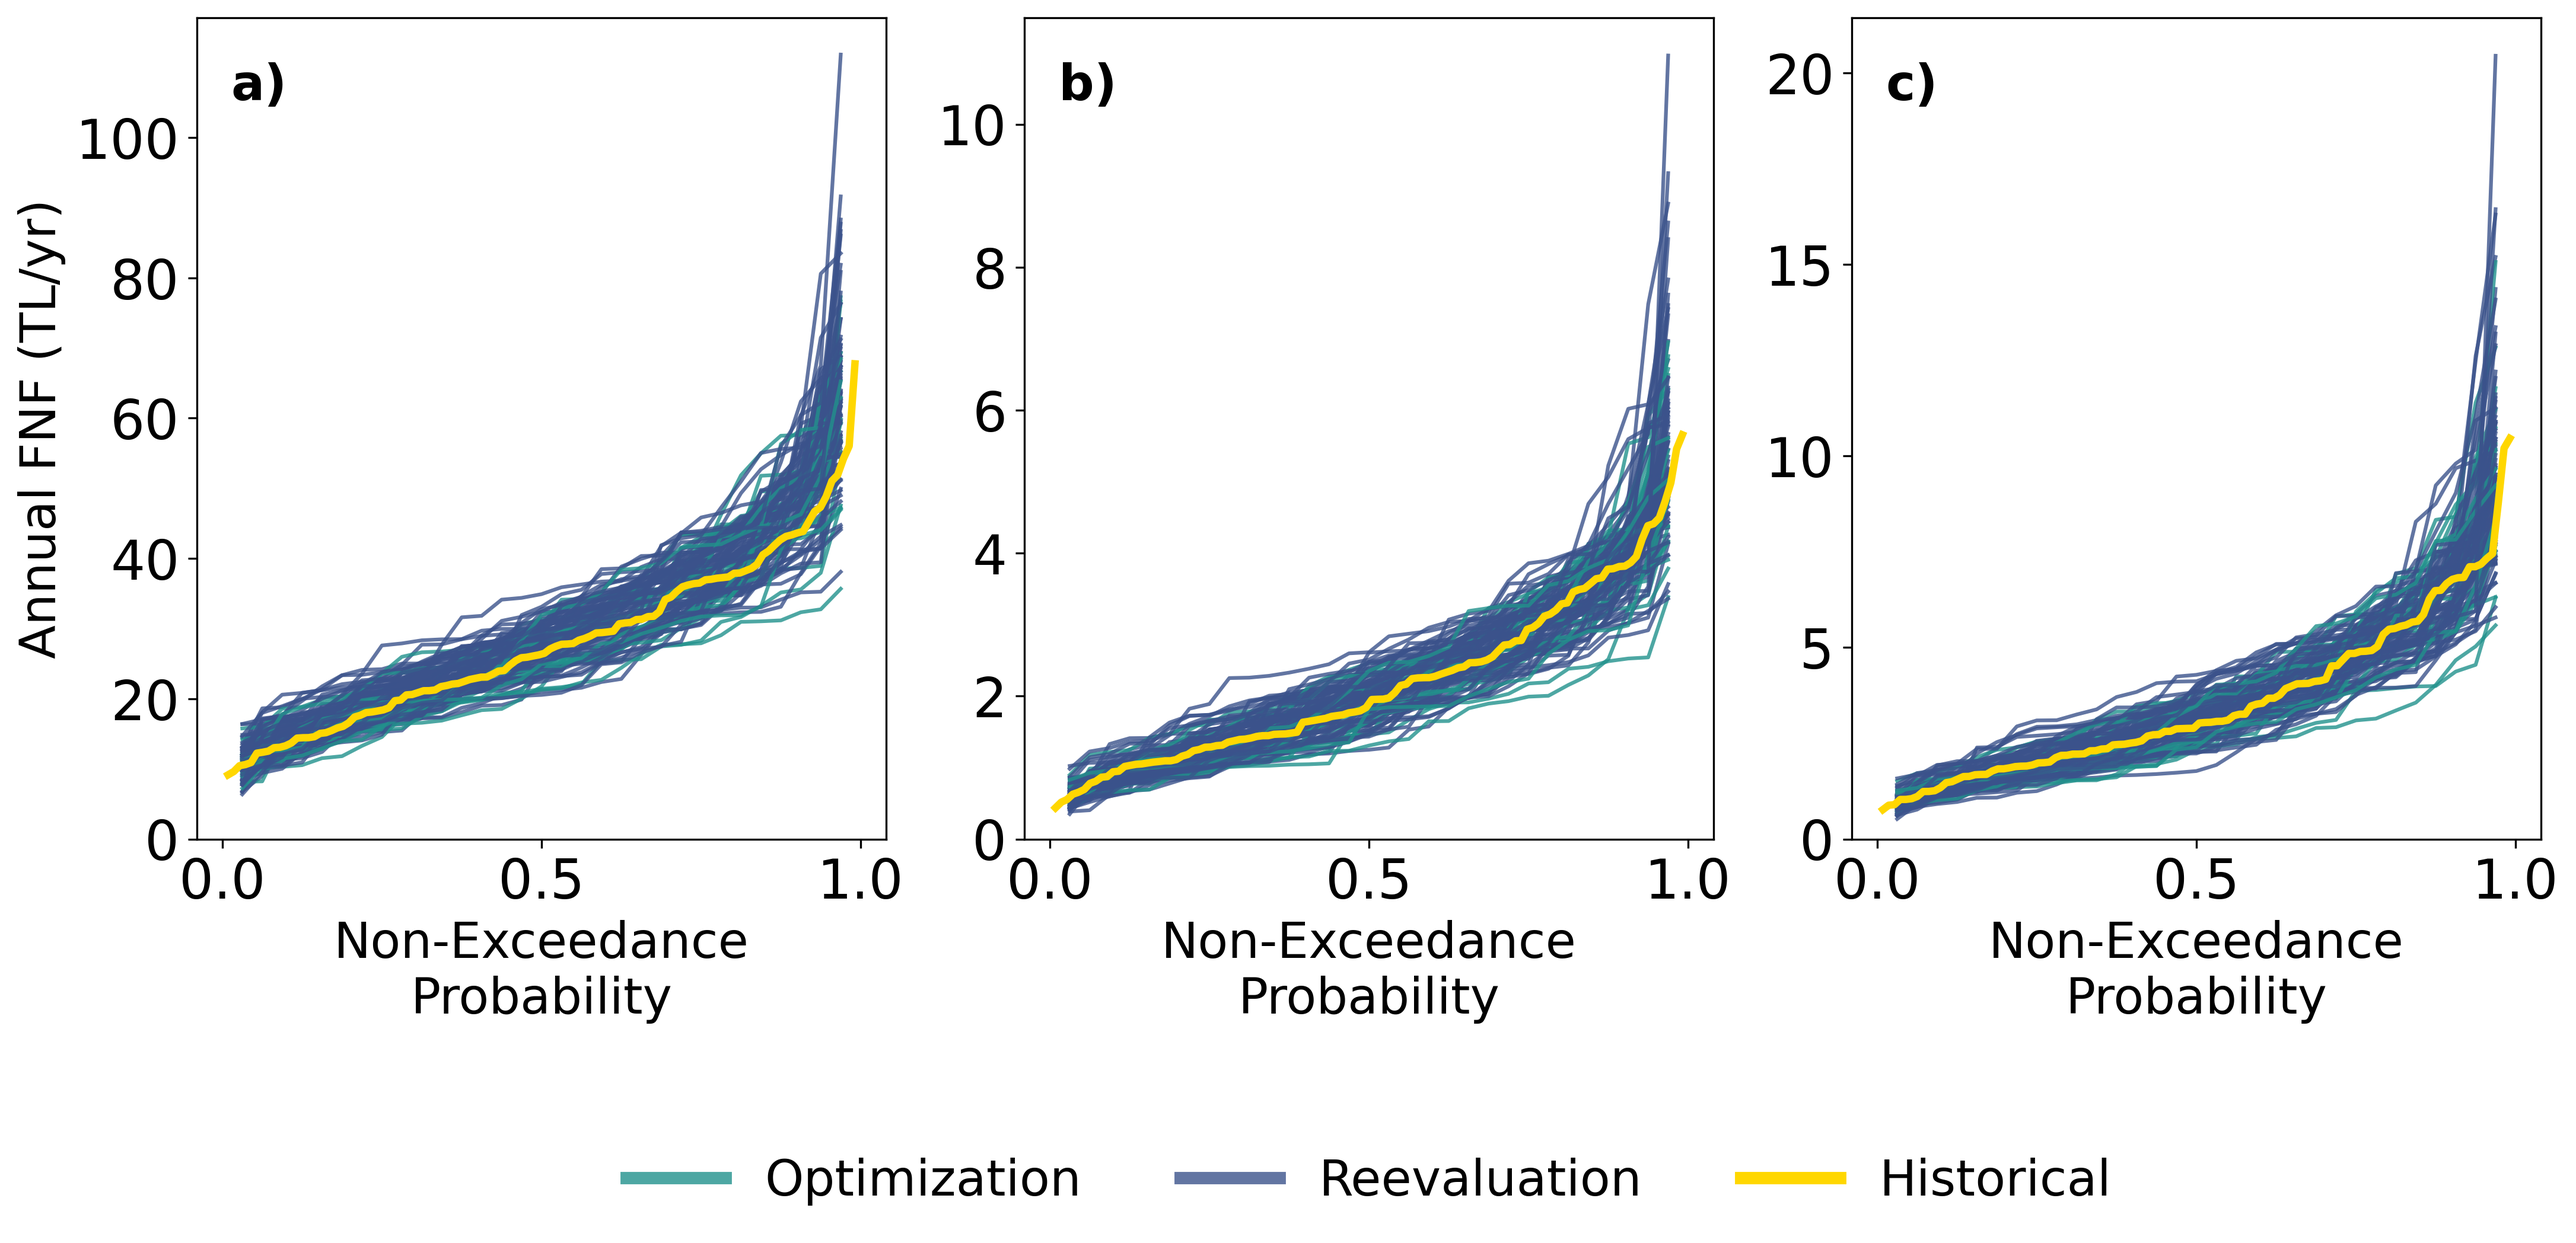
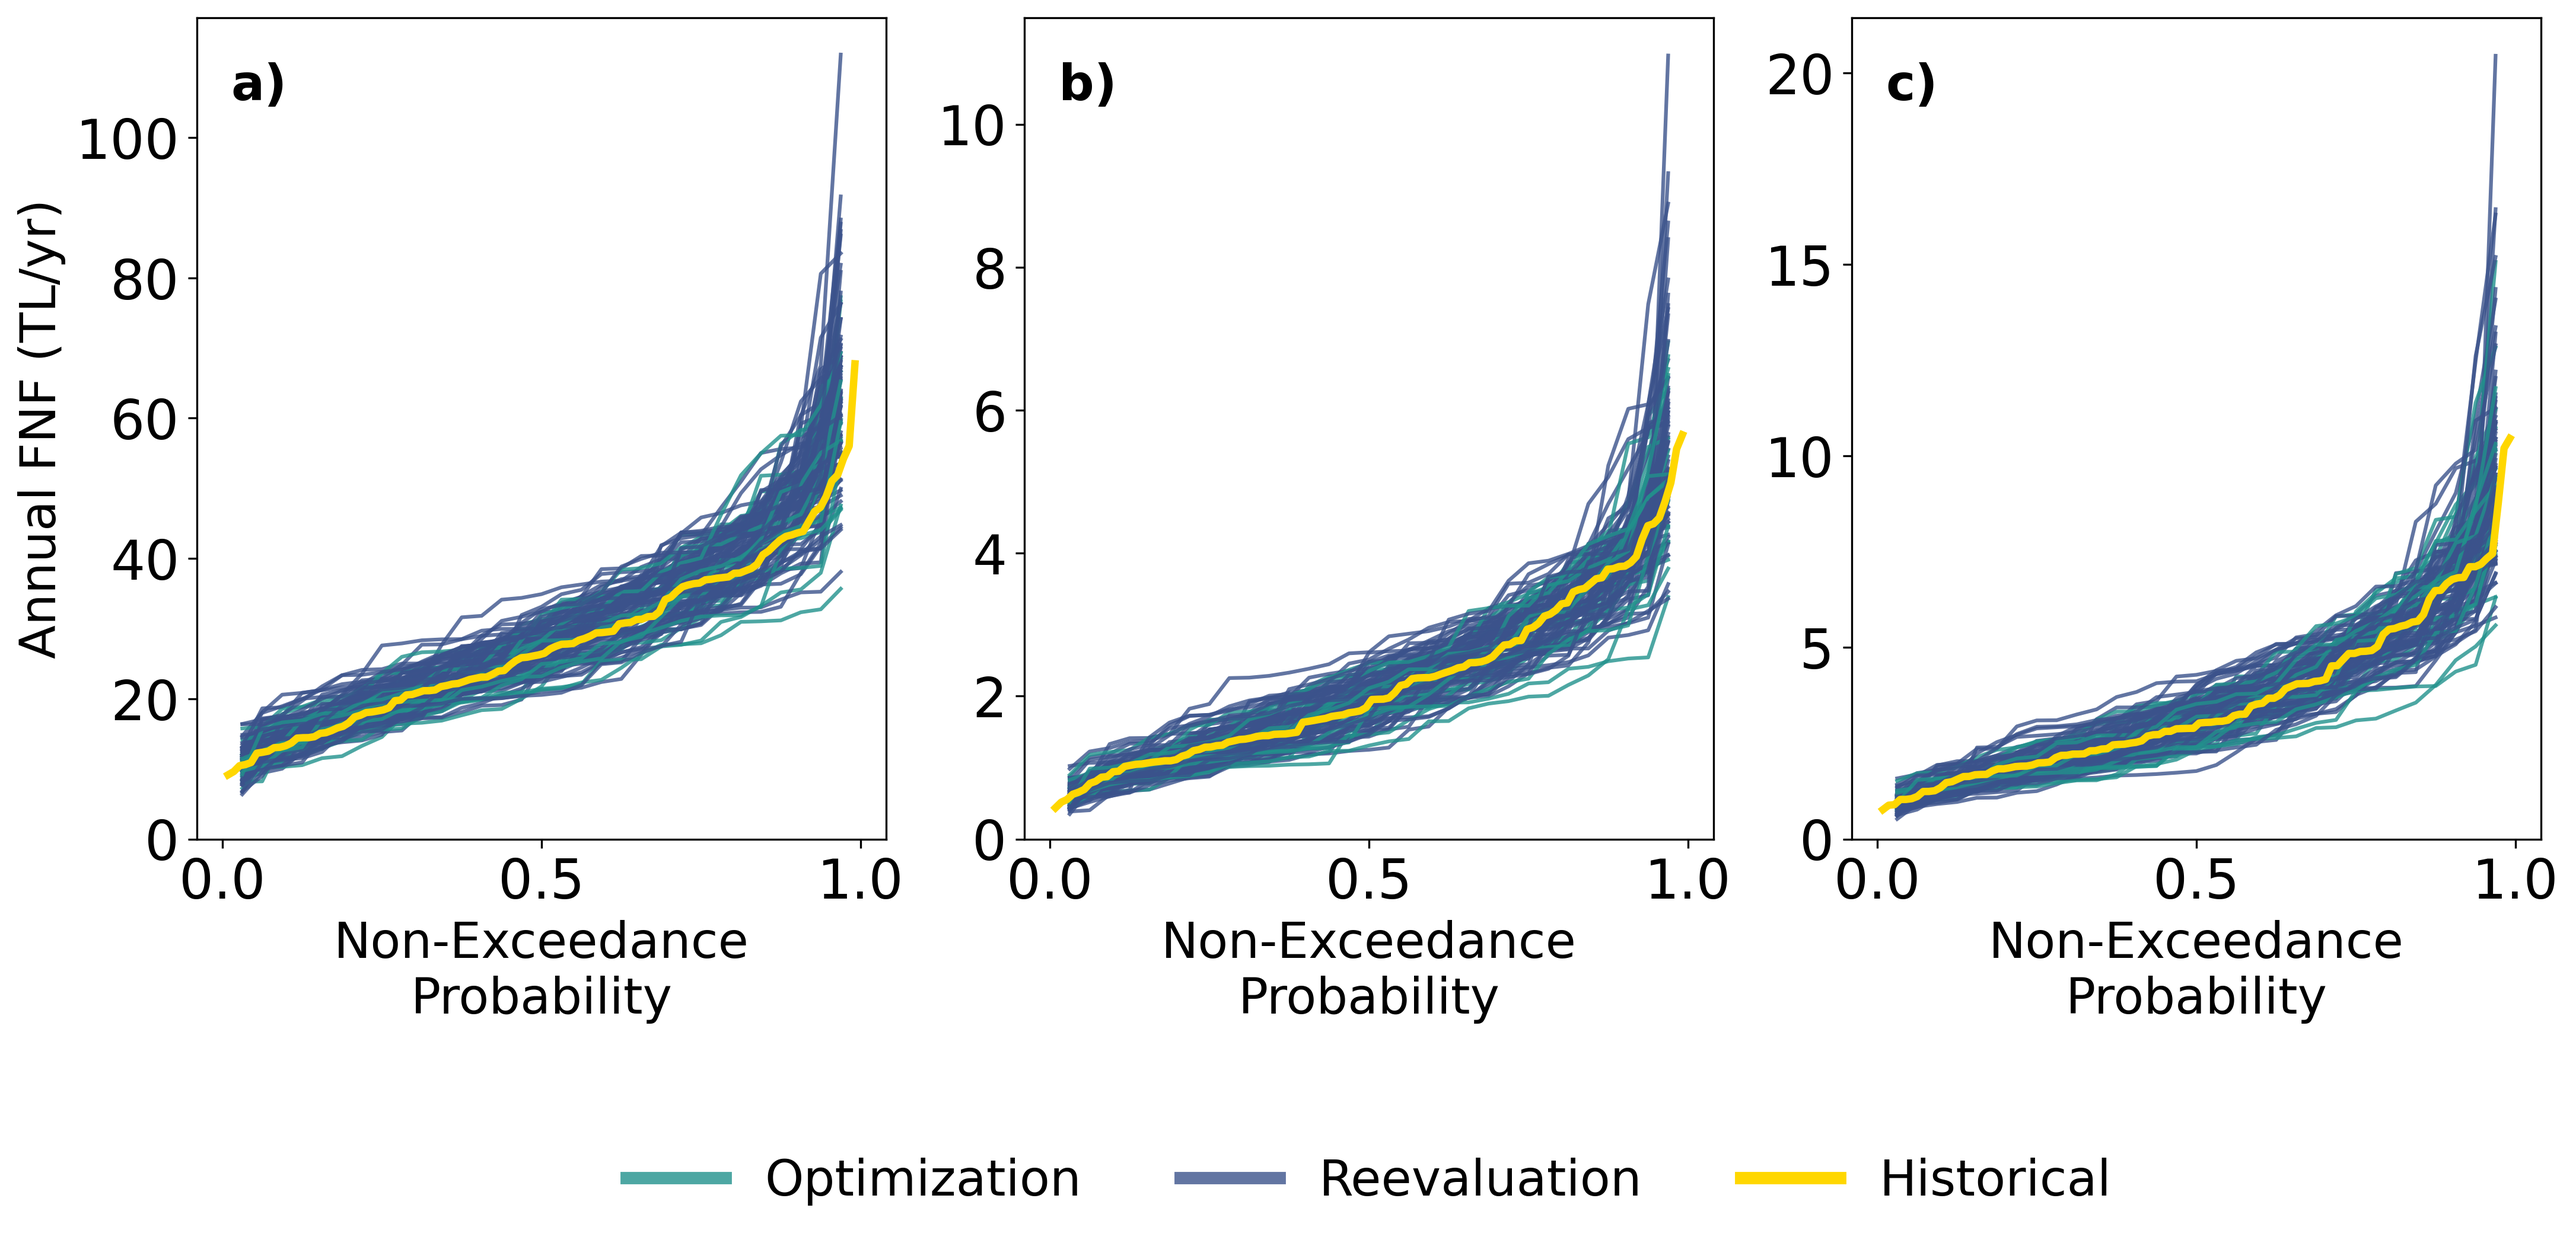
update climate reeval figs

diff --git a/MORDM_experiment/paper1/make_mhmm_figures_pt3.py b/MORDM_experiment/paper1/make_mhmm_figures_pt3.py
@@ -269,9 +269,9 @@ for figmode in ['past','future']:
 
     leg = axs[1].legend(loc='lower center', bbox_to_anchor=(0.5, -0.5), fontsize=fontsize, frameon=False, ncol=2)
 
-    axs[0].text(0.05, 0.90, "a)", fontsize=20, weight="bold", transform=axs[0].transAxes)
-    axs[1].text(0.05, 0.90, "b)", fontsize=20, weight="bold",transform=axs[1].transAxes)
-    axs[2].text(0.05, 0.90, "c)", fontsize=20, weight="bold", transform=axs[2].transAxes)
+    axs[0].text(0.05, 0.90, "a)", fontsize=fontsize+1, weight="bold", transform=axs[0].transAxes)
+    axs[1].text(0.05, 0.90, "b)", fontsize=fontsize+1, weight="bold",transform=axs[1].transAxes)
+    axs[2].text(0.05, 0.90, "c)", fontsize=fontsize+1, weight="bold", transform=axs[2].transAxes)
 
 
     plt.savefig(f"./figs/FDC_climate_scenarios_{figmode}.png", format="png", dpi=300, bbox_inches='tight')
